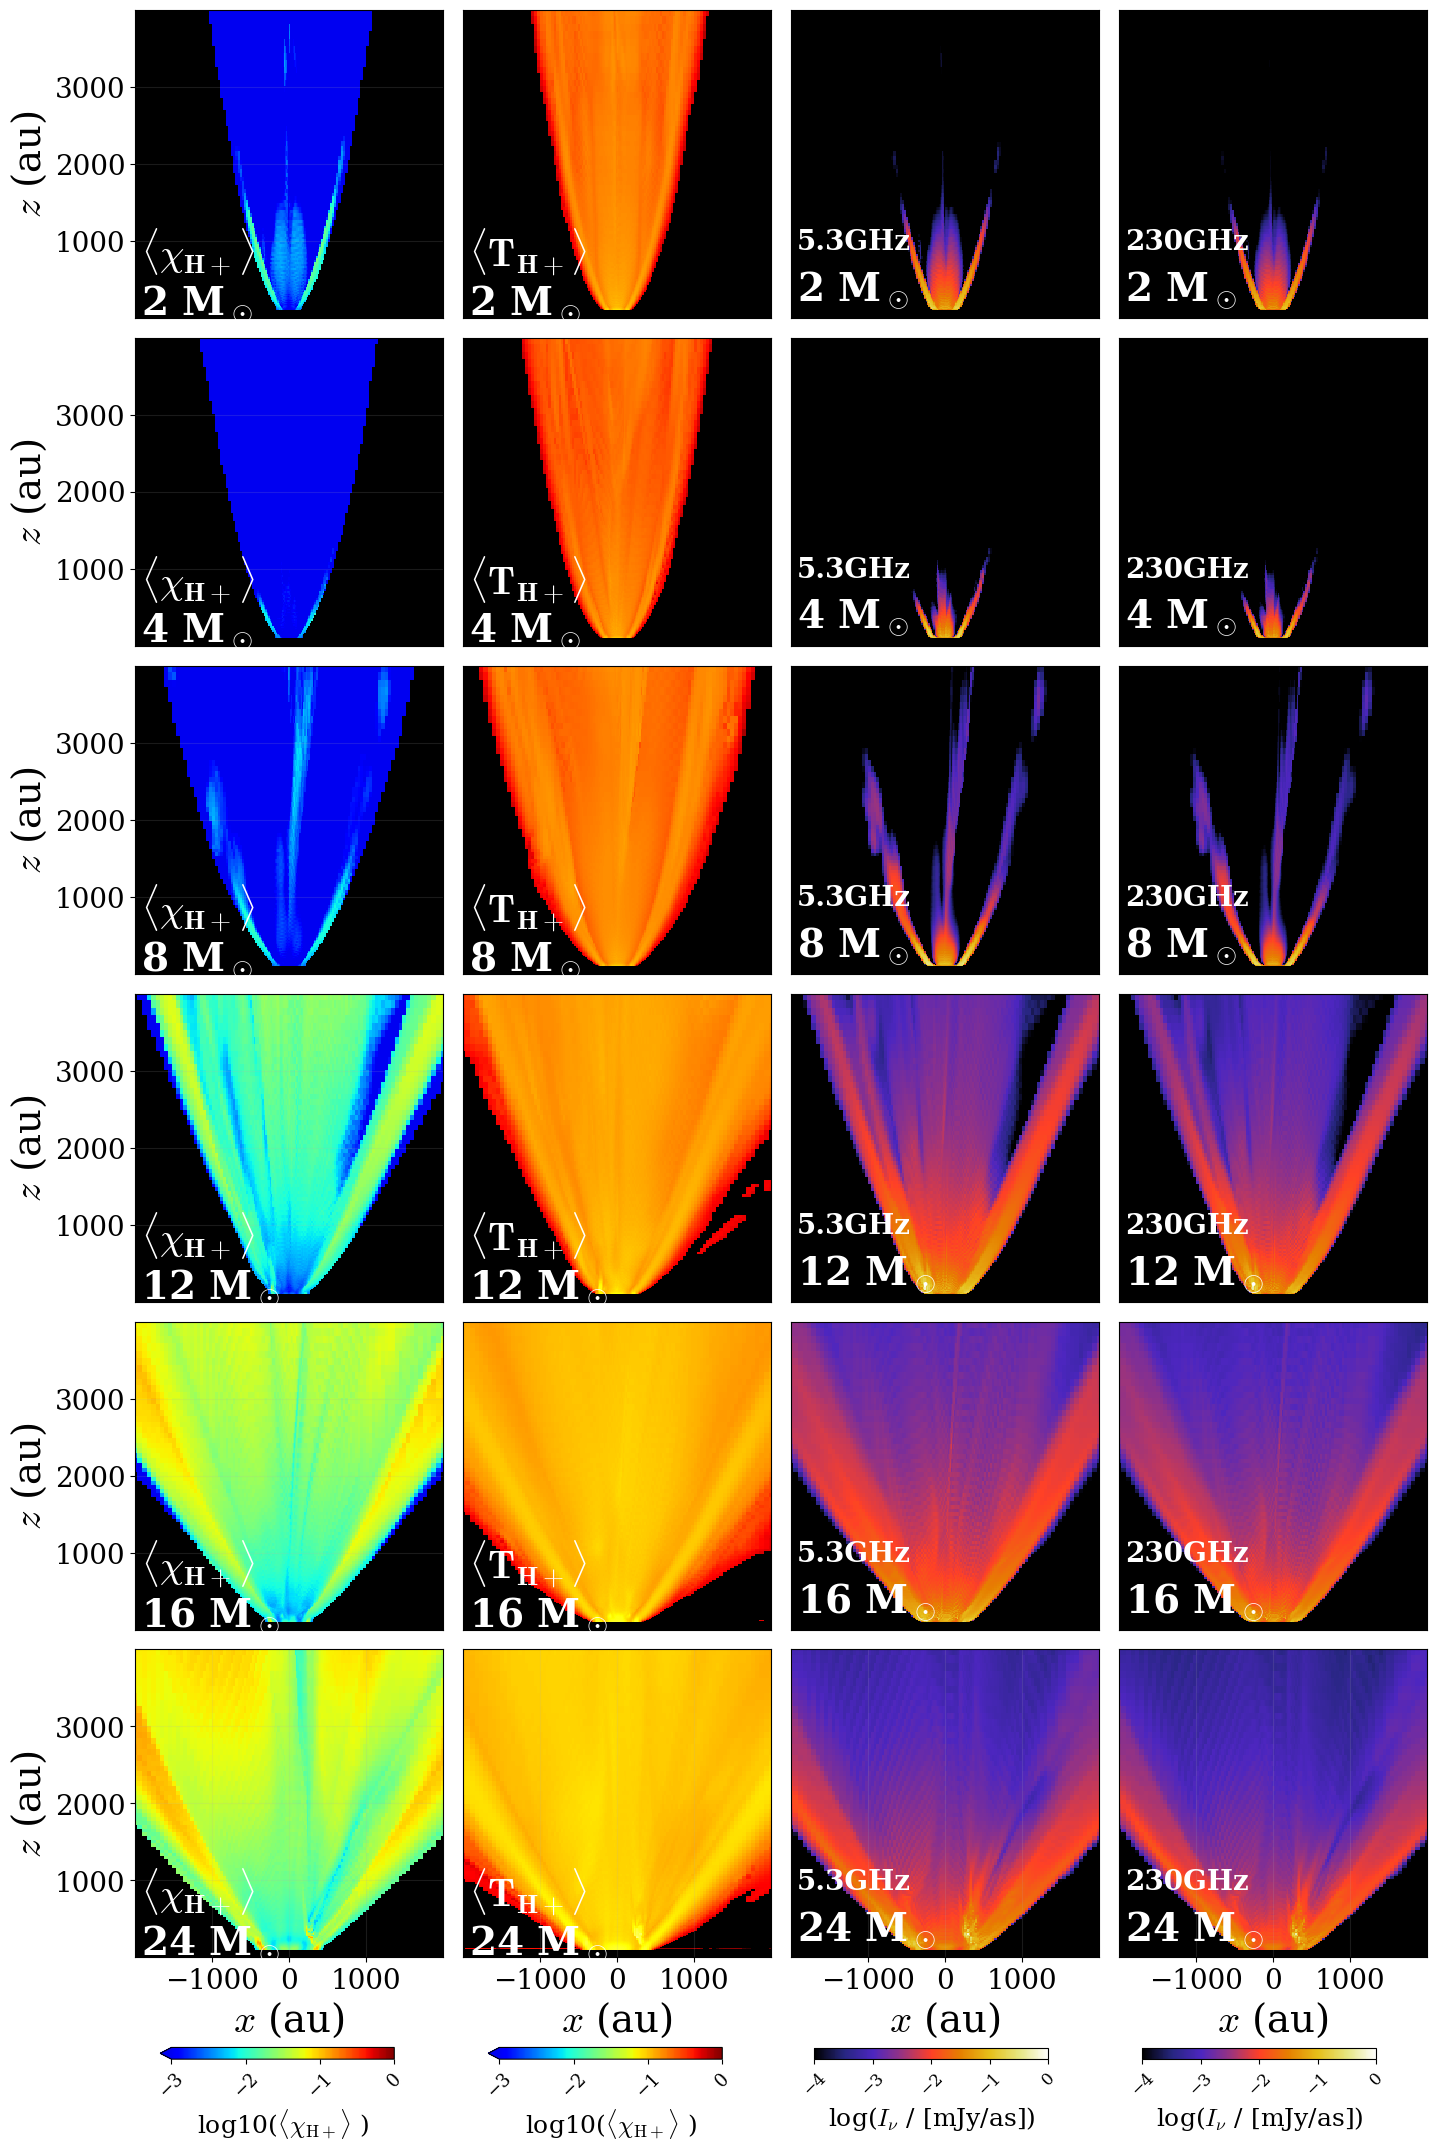
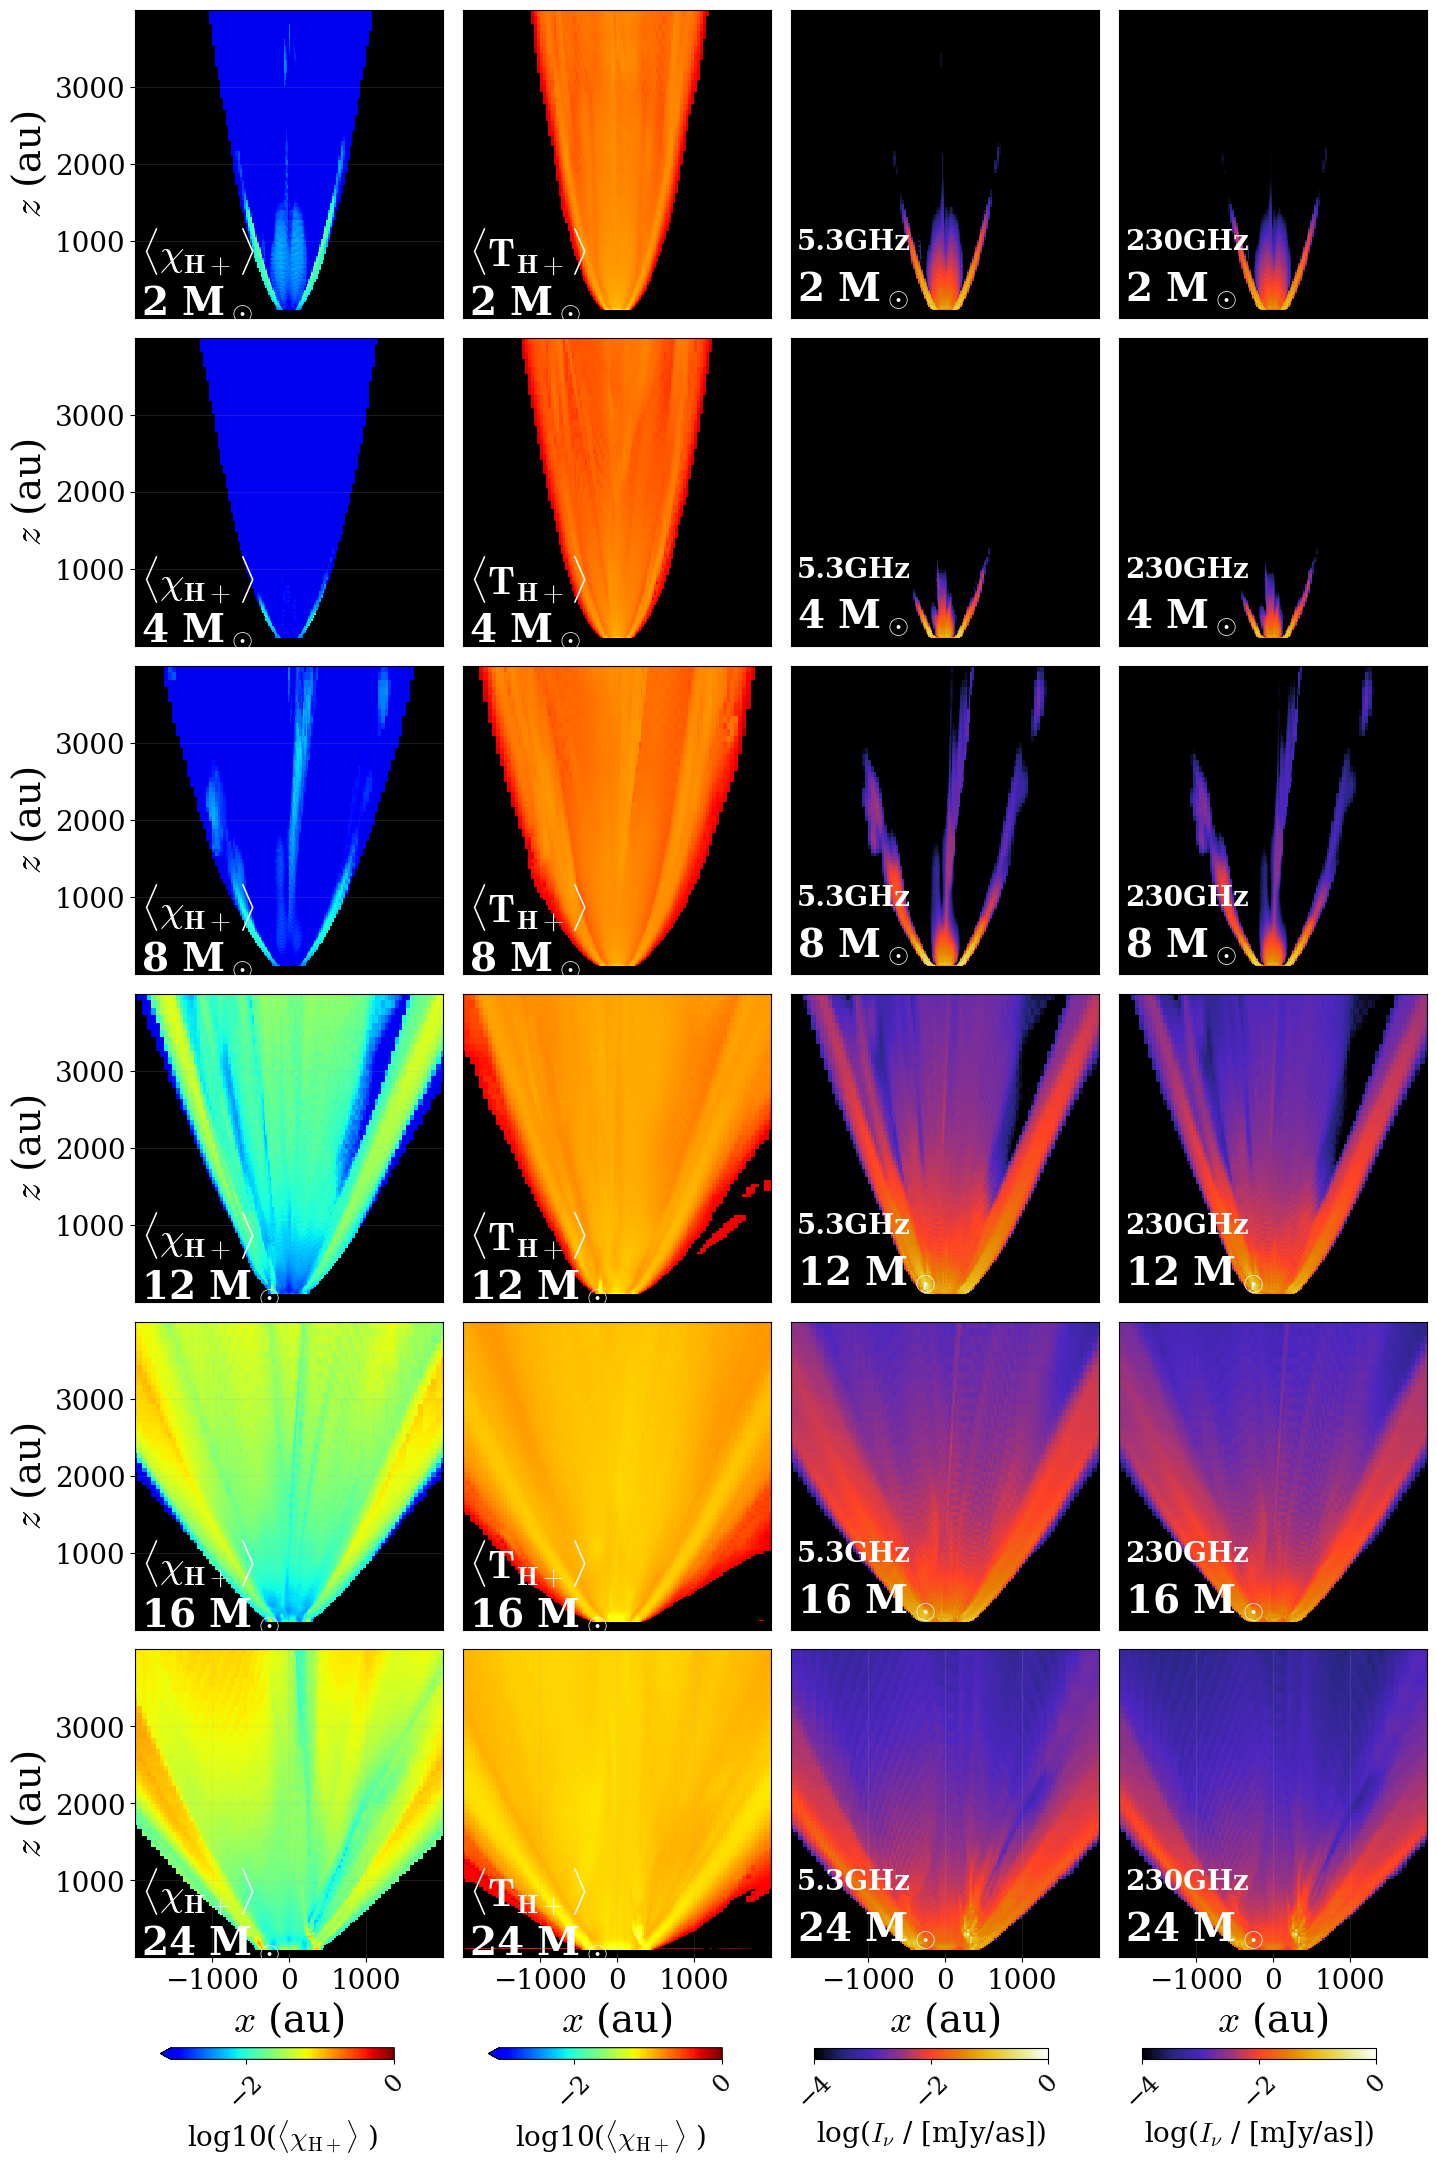
Updated tick sizing on proj maps.

diff --git a/pjams/projs.py b/pjams/projs.py
@@ -89,14 +89,14 @@ def mass_ionfrac_proj_pcolormesh(Snap, year, scale, vmin, vmax, v, cmap=new_cmap
             cbar = fig.colorbar(cont, orientation = 'vertical', 
                                 fraction=0.038, pad=cbar_pad, extend='min')
             cbar.set_label(label = (r'log10($\langle\chi_\mathrm{H+}\rangle$ )'),
-                          fontsize = 18)
-            cbar.ax.tick_params(rotation=45, labelsize = 13)
+                          fontsize = 20)
+            cbar.ax.tick_params(rotation=45, labelsize = 18)
         else:
             cbar = fig.colorbar(cont, orientation = 'horizontal', 
                                 fraction=0.038, pad=cbar_pad, extend='min')
             cbar.set_label(label = (r'log10($\langle\chi_\mathrm{H+}\rangle$ )'),
-                          fontsize=18)
-            cbar.ax.tick_params(rotation=45, labelsize=13)
+                          fontsize = 20)
+            cbar.ax.tick_params(rotation=45, labelsize = 18)
             
     if(show_contours):
         cntr = ax.contour(Snap.X2_1v , Snap.X1_2v, np.rot90(Snap.maxv1), 
@@ -160,14 +160,14 @@ def mass_ionfrac_proj_const_pcolormesh(Snap, year, const, scale, vmin, vmax, v, 
             cbar = fig.colorbar(cont, orientation = 'vertical', 
                                 fraction=0.038, pad=cbar_pad, extend='min')
             cbar.set_label(label = (r'log10($\langle\chi_\mathrm{H+}\rangle$ )'),
-                          fontsize = 18)
-            cbar.ax.tick_params(rotation=45, labelsize = 13)
+                          fontsize = 20)
+            cbar.ax.tick_params(rotation=45, labelsize = 18)
         else:
             cbar = fig.colorbar(cont, orientation = 'horizontal', 
                                 fraction=0.038, pad=cbar_pad, extend='min')
             cbar.set_label(label = (r'log10($\langle\chi_\mathrm{H+}\rangle$ )'),
-                          fontsize=18)
-            cbar.ax.tick_params(rotation=45, labelsize=13)
+                          fontsize = 20)
+            cbar.ax.tick_params(rotation=45, labelsize = 18)
             
     if(show_contours):
         cntr = ax.contour(Snap.X2_1v , Snap.X1_2v, np.rot90(Snap.maxv1), 
@@ -235,14 +235,14 @@ def intensity_proj_pcolormesh(Snap, year, scale, f, vmin, vmax, cmap='CMRmap',
             cbar = fig.colorbar(cont, orientation = 'vertical', 
                                 fraction=0.038, pad=cbar_pad)
             cbar.set_label(label = (r'log($I_\nu$ / [mJy/as])'),
-                          fontsize = 18)
-            cbar.ax.tick_params(rotation=45, labelsize = 12)
+                          fontsize = 20)
+            cbar.ax.tick_params(rotation=45, labelsize = 18)
         else:
             cbar = fig.colorbar(cont, orientation = 'horizontal', 
                                 fraction=0.038, pad=cbar_pad)
             cbar.set_label(label = (r'log($I_\nu$ / [mJy/as])'),
-                          fontsize=18)
-            cbar.ax.tick_params(rotation=45, labelsize=12)
+                          fontsize = 20)
+            cbar.ax.tick_params(rotation=45, labelsize = 18)
     ax.text(.02, .29, (freq_strings[f]+'GHz'), ha='left', va='top', 
             transform=ax.transAxes, fontsize = 20, color='white', weight='bold')
     ax.text(.02, .3, ('\n'+year), ha='left', va='top', 
@@ -291,14 +291,14 @@ def intensity_proj_const_pcolormesh(Snap, year, const, scale, f, vmin, vmax, cma
             cbar = fig.colorbar(cont, orientation = 'vertical', 
                                 fraction=0.038, pad=cbar_pad)
             cbar.set_label(label = (r'log($I_\nu$ / [mJy/as])'),
-                          fontsize = 18)
-            cbar.ax.tick_params(rotation=45, labelsize = 12)
+                          fontsize = 20)
+            cbar.ax.tick_params(rotation=45, labelsize = 18)
         else:
             cbar = fig.colorbar(cont, orientation = 'horizontal', 
                                 fraction=0.038, pad=cbar_pad)
             cbar.set_label(label = (r'log($I_\nu$ / [mJy/as])'),
-                          fontsize=18)
-            cbar.ax.tick_params(rotation=45, labelsize=12)
+                          fontsize = 20)
+            cbar.ax.tick_params(rotation=45, labelsize = 18)
     ax.text(.02, .29, (freq_strings[f]+'GHz'), ha='left', va='top', 
             transform=ax.transAxes, fontsize = 20, color='white', weight='bold')
     ax.text(.02, .3, ('\n'+year), ha='left', va='top', 
@@ -362,14 +362,14 @@ def iontemp_proj_pcolormesh(Snap, year, scale, vmin, vmax,
             cbar = fig.colorbar(cont, orientation = 'vertical', 
                                 fraction=0.038, pad=cbar_pad)
             cbar.set_label(label = (r'log($\langle T_\mathrm{H+}\rangle$ / [K])'),
-                          fontsize = 18)
-            cbar.ax.tick_params(rotation=45, labelsize = 13)
+                          fontsize = 20)
+            cbar.ax.tick_params(rotation=45, labelsize = 18)
         else:
             cbar = fig.colorbar(cont, orientation = 'horizontal', 
                                 fraction=0.038, pad=cbar_pad)
             cbar.set_label(label = (r'log($\langle T_\mathrm{H+}\rangle$ / [K])'),
-                          fontsize=18)
-            cbar.ax.tick_params(rotation=45, labelsize=13)
+                          fontsize = 20)
+            cbar.ax.tick_params(rotation=45, labelsize = 18)
     
     ax.text(.02, .3, (r'$\mathbf{\langle T_{H+}\rangle}$'+'\n'+year), ha='left', va='top', 
             transform=ax.transAxes, fontsize = 28, weight='bold', color='white')
@@ -425,14 +425,14 @@ def iontemp_proj_ratio_pcolormesh(Snap, year, scale, vmin, vmax,
             cbar = fig.colorbar(cont, orientation = 'vertical', 
                                 fraction=0.038, pad=cbar_pad)
             cbar.set_label(label = (r'log($\langle T_\mathrm{H+}\rangle$ / [K])'),
-                          fontsize = 18)
-            cbar.ax.tick_params(rotation=45, labelsize = 13)
+                          fontsize = 20)
+            cbar.ax.tick_params(rotation=45, labelsize = 18)
         else:
             cbar = fig.colorbar(cont, orientation = 'horizontal', 
                                 fraction=0.038, pad=cbar_pad)
             cbar.set_label(label = (r'log($\langle T_\mathrm{H+}\rangle$ / [K])'),
-                          fontsize=18)
-            cbar.ax.tick_params(rotation=45, labelsize=13)
+                          fontsize = 20)
+            cbar.ax.tick_params(rotation=45, labelsize = 18)
     
     ax.text(.02, .3, (r'$\mathbf{\langle T_{H+}\rangle}$'+'\n'+year), ha='left', va='top', 
             transform=ax.transAxes, fontsize = 28, weight='bold', color='white')
